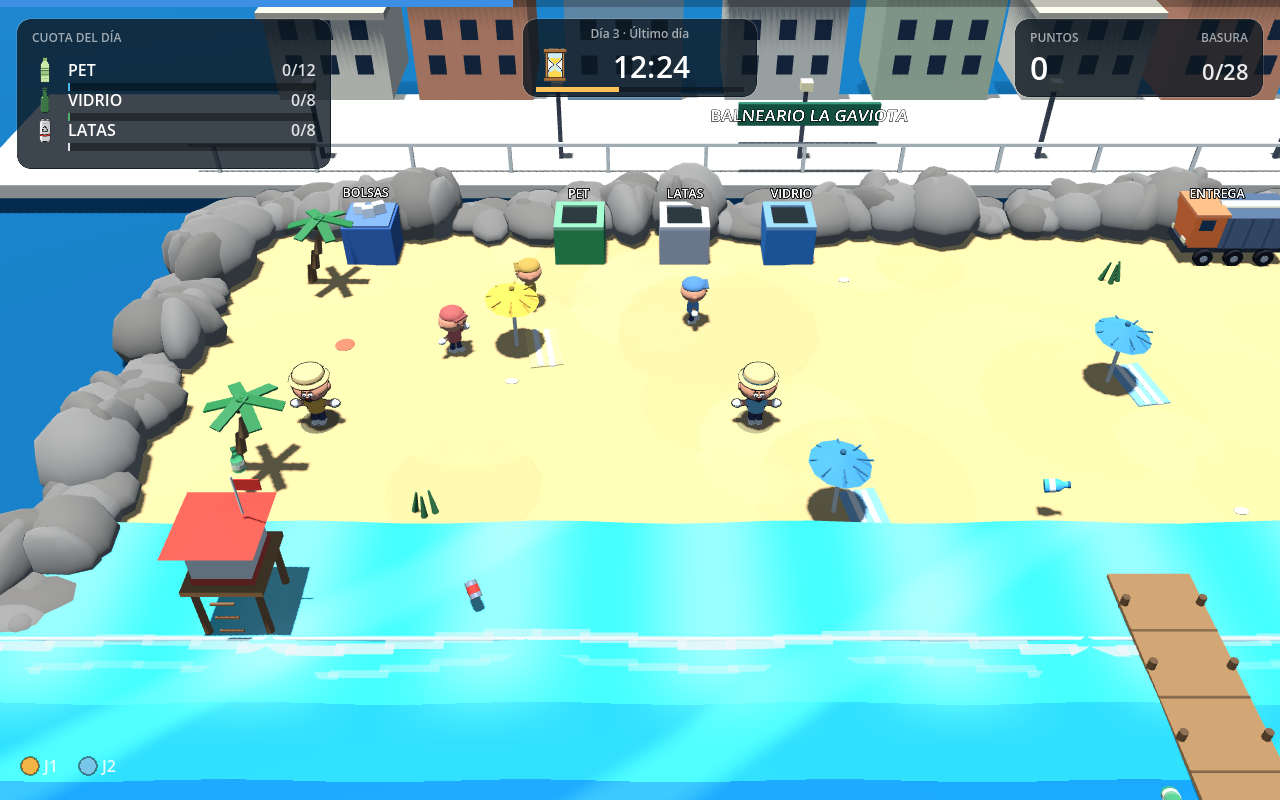
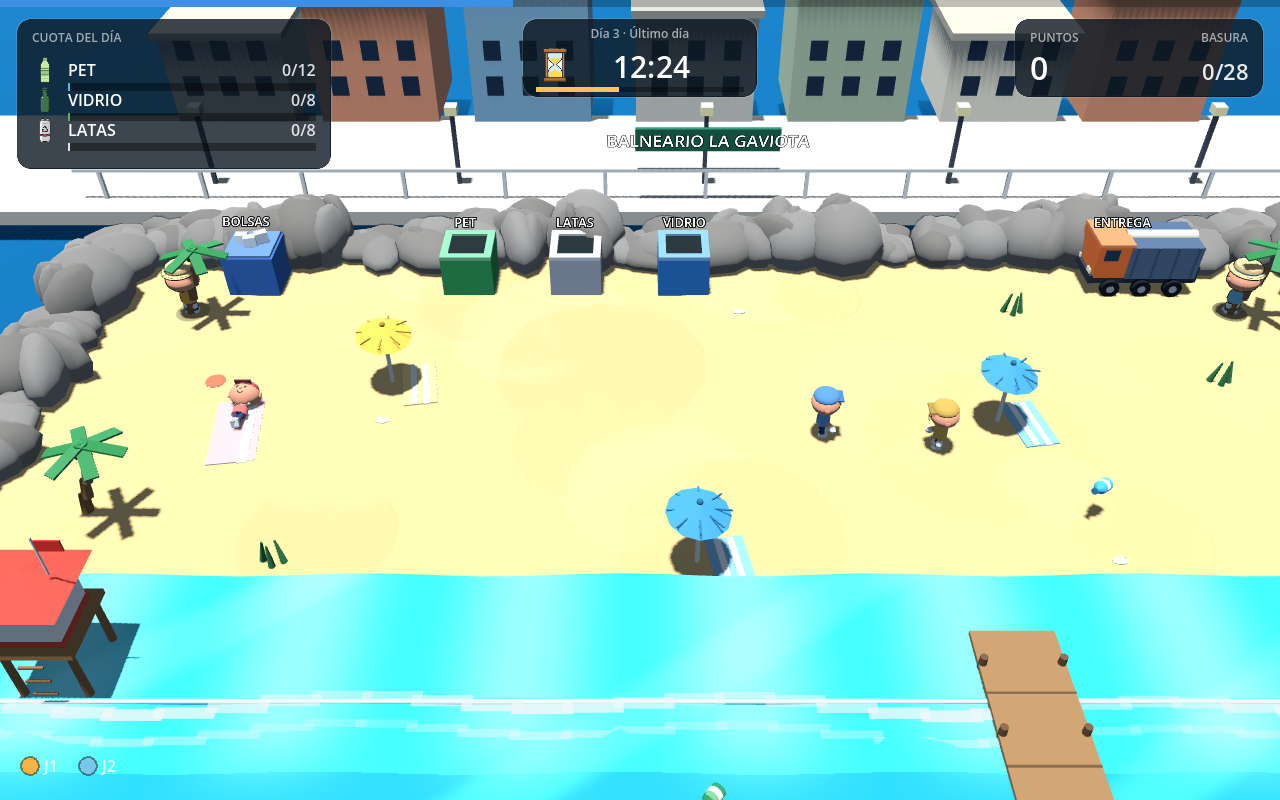
Arregla la T-pose y NPCs veraneantes que tiran basura al mar
Animación:
- El GLB del chef viene en T-pose: la animación ahora baja los brazos con
  una rotación base (ARM_REST ±1.57) y suma el movimiento encima. Antes
  los personajes quedaban en cruz.

NPCs:
- Cada uno tiene su plan: uno toma sol panza arriba en una toalla y dos
  charlan frente a frente. Se levantan con transición, caminan a la orilla
  y tiran basura AL MAR con armado y latigazo (no pasean sin rumbo).
- Sin el sombrero del chef y con gorrita de color, para distinguirlos.
- La basura que tiran flota y se hunde a los 10 s: cierra el circuito con
  el nado y el tiburón.

108 comprobaciones headless (2 nuevas: el NPC tira al mar y esa basura
flota y se hunde si nadie la saca).

diff --git a/docs/MECANICAS.md b/docs/MECANICAS.md
@@ -175,8 +175,11 @@ tiburón tampoco descuenta: cuesta 5 segundos de espera.
 
 ## NPCs (Fase 4)
 
-- **1, 2 o 3 NPCs** según el día. Caminan por la arena, se acercan a la orilla,
-  **tiran una basura** con la misma parábola que el jugador y siguen paseando.
+- **1, 2 o 3 veraneantes** según el día, cada uno con su plan: uno **toma sol**
+  panza arriba en una toalla, y dos **charlan** frente a frente gesticulando.
+- Cada tanto uno **se levanta** (con transición, no teletransporte), camina hasta
+  la orilla y **tira basura al mar** con un armado y un latigazo: la basura vuela
+  al agua, flota y se hunde a los 10 s si nadie la rescata.
 - Son la explicación visual de por qué la playa se ensucia (y atan la ciudad del
   fondo con la arena).
 - Llevan **gorrita de color** y no el sombrero del chef, así se distinguen de los
@@ -188,7 +191,9 @@ Todo son primitivas de Godot; lo que hace que se reconozca cada cosa es la
 silueta:
 
 - **Personaje**: 0,84 de escala (antes tapaba media pantalla) y con la cara
-  detallada: ojos con esclerótica y brillo, cejas, sonrisa y cachetes.
+  detallada: ojos con esclerótica y brillo, cejas, sonrisa y cachetes. El GLB
+  viene en **T-pose**, así que la animación baja los brazos con una rotación base
+  (`ARM_REST_L/R`) y suma el movimiento encima.
 - **Botella PET**: cuerpo ancho, etiqueta blanca y tapa azul oscura.
 - **Botella de vidrio**: verde, cuello largo y etiqueta crema.
 - **Lata**: metal con banda roja y anilla en la tapa.

diff --git a/README.md b/README.md
@@ -73,8 +73,9 @@ para rescatarlo.
 
 ![orilla](docs/captura-orilla.png)
 
-**Los NPCs** (1 a 3 según el día) pasean por la arena con su gorrita y tiran
-basura: son los que ensucian la playa.
+**Los NPCs** (1 a 3 según el día) son veraneantes: uno toma sol en su toalla,
+otros charlan frente a frente y cada tanto uno se levanta, camina a la orilla y
+**tira basura al mar**.
 
 ![npc](docs/captura-npc.png)
 
@@ -113,7 +114,7 @@ scripts/model_viewer.gd  visor standalone del asset
 tools/gen_chef.py        generador del personaje (Blender headless -> GLB)
 tools/render_views.py    4 vistas ortográficas + 3/4 para comparar
 tools/ref_metrics.py     mide una lámina de referencia y el render propio
-tests/headless_test.gd   106 comprobaciones de reglas (headless)
+tests/headless_test.gd   108 comprobaciones de reglas (headless)
 tests/shot.gd            capturas automáticas para verificación visual
 docs/                    diseño, plan, mecánicas y comparaciones
 ```
@@ -160,7 +161,7 @@ godot --headless --path . --import
 godot --headless --path . -- --test
 ```
 
-**106 comprobaciones** sobre las mismas funciones que usa el input real: reloj y
+**108 comprobaciones** sobre las mismas funciones que usa el input real: reloj y
 cuota, basura que aparece, colgar / sacar la bolsa del contenedor, tirar basura
 (tipo correcto y equivocado), entrega en el camión, fin de día (ganar y perder),
 gaviotas (incluido que aparezcan más espaciadas con un solo jugador),

diff --git a/docs/PLAN-v2.md b/docs/PLAN-v2.md
@@ -120,12 +120,15 @@ Decisiones de implementación:
 
 | # | Paso | Estado |
 |---|---|---|
-| 4.1 | NPCs que caminan a la orilla y tiran basura (visual) | ✅ |
+| 4.1 | NPCs veraneantes que se levantan y tiran basura al mar | ✅ |
 | 4.2 | Nivel bosque con río (mismos sistemas, otros datos) | pendiente |
 | 4.3 | Luz que va de mañana a atardecer según el reloj | ✅ (desde la Fase 1) |
 
 Decisiones de la 4.1:
 
+- Cada NPC tiene **su plan** (tomar sol, charlar) y una transición real al
+  levantarse; no pasean sin rumbo. Tiran al **mar**, así la basura flota y se
+  hunde: cierra el circuito con el nado y el tiburón.
 - Los NPCs **reusan el modelo del chef** (sin el sombrero, con gorrita de color y
   0,76 de escala): cero assets nuevos y se distinguen de los jugadores.
 - La basura que tiran **entra por el mismo camino que la del spawner** (parábola
